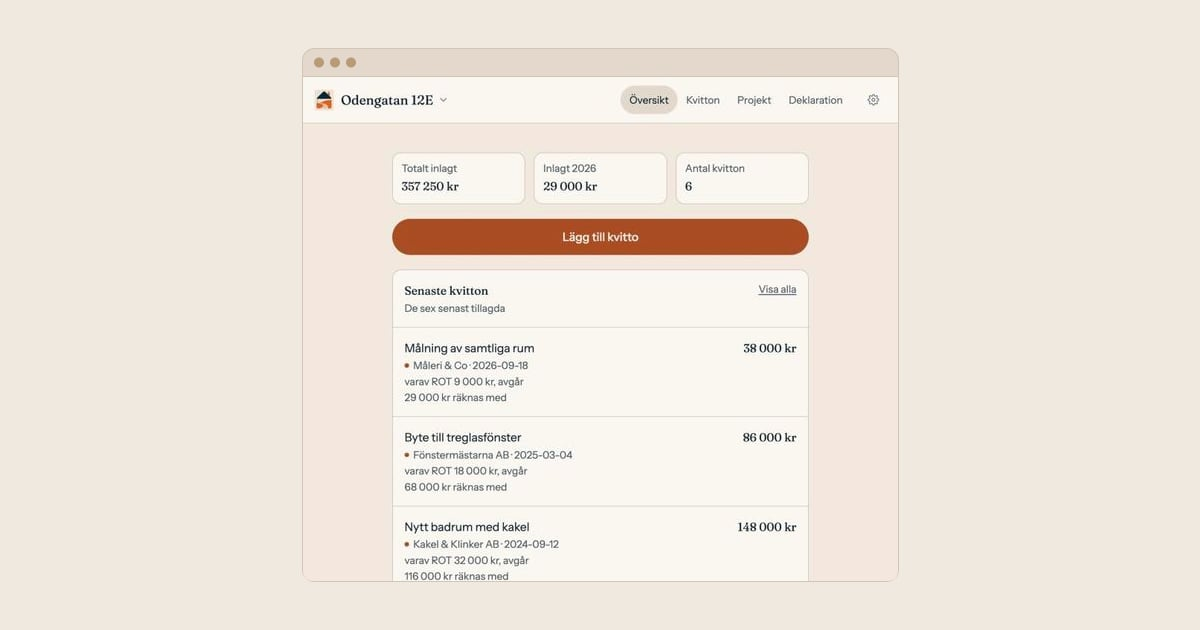
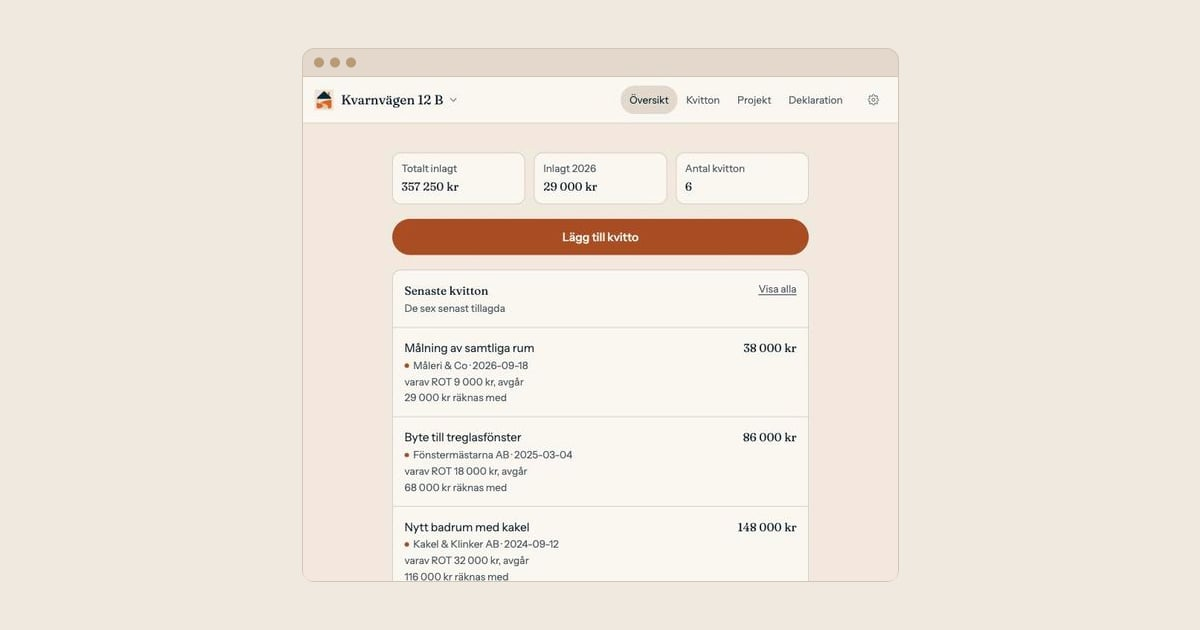
Femarsfonstret beskrivs som kalenderar overallt
Landningssidan, projektlistans informationsknapp och exportens skal sa
'inom/mer an fem ar fore forsaljningen' - en rullande period. Fonstret ar
forsaljningsaret och de fem kalenderaren narmast fore. Lydelserna ar
design.md:s, och ett test letar efter den gamla formen i det som renderas
och i varje kallfil. Svaret om eget arbete tar med hyrd maskin, avsnitt 6
heter 'Borja med nasta kvitto', och delningsbilden ar ombyggd ur den nya
skarmbilden med Kvarnvagen 12 B.

diff --git a/tester/femarsfonstret-lydelse.test.ts b/tester/femarsfonstret-lydelse.test.ts
@@ -1,0 +1,106 @@
+// @vitest-environment jsdom
+import { readdirSync, readFileSync, statSync } from "node:fs";
+import { join } from "node:path";
+import { act, createElement } from "react";
+import { createRoot } from "react-dom/client";
+import { renderToStaticMarkup } from "react-dom/server";
+import { describe, expect, it } from "vitest";
+import { Landningssida } from "@/app/landningssida";
+import { KategoriInfo } from "@/app/projekt/kategori-info";
+import { reparationsfonsterForklaring } from "@/doman/regeltext";
+
+// Femarsfonstret ar forsaljningsaret plus de fem narmast foregaende
+// kalenderaren (CLAUDE.md, Bortfall) – inte "inom fem ar fore forsaljningen",
+// som later som en rullande period bakat fran forsaljningsdagen. Den formen
+// stod 2026-10-23 pa landningssidan, i projektlistans informationsknapp och i
+// exportens skal, och den som laser den planerar fel.
+//
+// Den ratta lydelsen lases ur docs/design.md. Den forbjudna formen letas efter
+// i det som renderas OCH i kallkoden, sa att en ny skarm med samma fel fangas
+// aven om ingen har skrivit ett test for just den skarmen.
+
+(globalThis as { IS_REACT_ACT_ENVIRONMENT?: boolean }).IS_REACT_ACT_ENVIRONMENT = true;
+
+const DESIGN = readFileSync(join(process.cwd(), "docs", "design.md"), "utf-8");
+const normalisera = (t: string) => t.replace(/\s+/g, " ").trim();
+
+// Det regelparametern ger i dag. Texterna tar talet som argument.
+const FONSTER_AR = 5;
+
+/** "inom fem år före försäljningen", "mer än sex år före försäljningen" … */
+const ROLLANDE = /(inom|mer än)\s+\S+\s+år\s+före\s+försäljningen/i;
+
+function infoknappenEnligtDesign(): string[] {
+  const rad = DESIGN.split("\n").find((r) =>
+    r.startsWith("**En informationsknapp vid listans rubrik"),
+  );
+  expect(rad, "informationsknappens stycke i design.md").toBeTruthy();
+  const utanRubrik = rad!.replace(/^\*\*[^*]+\*\*\s*/, "");
+  return utanRubrik.split(/ (?=Reparation: )/).map(normalisera);
+}
+
+function exportskaletEnligtDesign(): string {
+  const traff = DESIGN.match(/Lydelsen ska vara: \*"([^"]+)"\*/);
+  expect(traff, "exportskalets lydelse i design.md").toBeTruthy();
+  return traff![1];
+}
+
+/** Informationsknappen, oppnad med ett riktigt klick, som text per stycke. */
+async function infoknappensText(): Promise<string[]> {
+  const behallare = document.createElement("div");
+  document.body.appendChild(behallare);
+  const rot = createRoot(behallare);
+  await act(async () => rot.render(createElement(KategoriInfo, { fonsterAr: FONSTER_AR })));
+  const knapp = behallare.querySelector("button")!;
+  await act(async () => knapp.dispatchEvent(new MouseEvent("click", { bubbles: true })));
+  const stycken = [...behallare.querySelectorAll("div.bg-sand p")].map((p) => normalisera(p.textContent ?? ""));
+  await act(async () => rot.unmount());
+  behallare.remove();
+  return stycken;
+}
+
+describe("projektlistans informationsknapp", () => {
+  it("säger ordagrant det design.md säger, när den öppnats", async () => {
+    const forvantat = infoknappenEnligtDesign();
+    expect(forvantat).toHaveLength(2);
+    expect(await infoknappensText()).toEqual(forvantat);
+  });
+});
+
+describe("exportens skäl när en reparation fallit ur fönstret", () => {
+  it("är design.md:s lydelse, ordagrant", () => {
+    expect(reparationsfonsterForklaring(FONSTER_AR)).toBe(exportskaletEnligtDesign());
+  });
+});
+
+describe("ingenstans beskrivs fönstret som en period bakåt från försäljningen", () => {
+  it("inte i det som renderas", async () => {
+    const renderat = [
+      normalisera(new DOMParser().parseFromString(renderToStaticMarkup(Landningssida()), "text/html").body.textContent ?? ""),
+      ...(await infoknappensText()),
+      ...[5, 6, 15].map(reparationsfonsterForklaring),
+    ];
+    for (const t of renderat) expect(t).not.toMatch(ROLLANDE);
+  });
+
+  it("inte i någon källfil – en ny skärm med samma fel fångas också", () => {
+    const filer: string[] = [];
+    const ga = (k: string) => {
+      for (const n of readdirSync(k)) {
+        const p = join(k, n);
+        if (statSync(p).isDirectory()) ga(p);
+        else if (/\.(tsx?|md)$/.test(n)) filer.push(p);
+      }
+    };
+    ga(join(process.cwd(), "src"));
+    expect(filer.length).toBeGreaterThan(50);
+
+    const traffar = filer.filter((f) => {
+      // Ett uttryck i JSX ({talSomOrd(fonsterAr)}) ar ett ord i den renderade
+      // texten – raknas som ett.
+      const text = normalisera(readFileSync(f, "utf-8").replace(/\{[^{}\n]*\}/g, "X"));
+      return ROLLANDE.test(text);
+    });
+    expect(traffar).toEqual([]);
+  });
+});

diff --git a/src/innehall/landningssida.ts b/src/innehall/landningssida.ts
@@ -32,7 +32,7 @@ export const FORBATTRINGSUTGIFT: { rubrik: string; block: Stycke[] } = {
     },
     {
       rubrik: "Reparationer räknas i fem år.",
-      text: "Förbättrande reparationer och underhåll räknas bara om de gjorts inom fem år före försäljningen, och bara till den del bostaden blivit bättre än den var när du köpte den.",
+      text: "Förbättrande reparationer och underhåll räknas bara om de gjorts under försäljningsåret eller de fem kalenderåren närmast före, och bara till den del bostaden blivit bättre än den var när du köpte den.",
     },
     {
       rubrik: "Minst 5 000 kr per kalenderår.",
@@ -72,11 +72,11 @@ export const VANLIGA_FRAGOR: { rubrik: string; fragor: Fraga[] } = {
   fragor: [
     {
       fraga: "Vilka renoveringar får jag dra av?",
-      svar: "Grundförbättringar – att bygga nytt, bygga till, bygga om eller sätta in något som inte fanns – räknas alltid. Reparationer och underhåll räknas bara om de gjorts inom fem år före försäljningen, och bara till den del bostaden blivit bättre än när du köpte den.",
+      svar: "Grundförbättringar – att bygga nytt, bygga till, bygga om eller sätta in något som inte fanns – räknas alltid. Reparationer och underhåll räknas bara om de gjorts under försäljningsåret eller de fem kalenderåren närmast före, och bara till den del bostaden blivit bättre än när du köpte den.",
     },
     {
       fraga: "Hur långt tillbaka i tiden räknas det?",
-      svar: "Grundförbättringar har ingen tidsgräns framåt. En ombyggnad från 2004 räknas lika fullt vid en försäljning i dag. Förbättrande reparationer räknas bara om de gjorts inom fem år före försäljningen.",
+      svar: "Grundförbättringar har ingen tidsgräns framåt. En ombyggnad från 2004 räknas lika fullt vid en försäljning i dag. Förbättrande reparationer räknas bara under försäljningsåret och de fem kalenderåren närmast före.",
     },
     {
       fraga: "Måste jag ha kvar kvittot?",
@@ -92,7 +92,7 @@ export const VANLIGA_FRAGOR: { rubrik: string; fragor: Fraga[] } = {
     },
     {
       fraga: "Räknas det jag gjort själv?",
-      svar: "Ditt eget arbete får du inte dra av, och inte heller verktygen. Materialet får du. Och gör du jobbet själv finns ingen hantverkarfaktura som minns åt dig – då är kvittot på materialet allt du har.",
+      svar: "Ditt eget arbete får du inte dra av. Materialet får du, och hyrde du en maskin för jobbet räknas hyran också. Gör du jobbet själv finns ingen hantverkarfaktura som minns åt dig – då är kvittona allt du har.",
     },
     {
       fraga: "Vad kostar Kvittobo?",
@@ -106,10 +106,8 @@ export const VEM_STAR_BAKOM = {
   text: "Kvittobo byggs av några få personer som själva tappat bort kvitton på sådant de gjort hemma. Bakom tjänsten står en privatperson, inte ett bolag. Appen ger ingen skatterådgivning och ersätter inte Skatteverkets information – den hjälper dig att ha underlaget i ordning.",
 };
 
-// design.md namnger avsnittet ("En avslutande uppmaning") men ger det ingen
-// rubrik. Den har ar vald av agenten 2026-10-23 och vantar pa en beslutad.
 export const AVSLUTNING = {
-  rubrik: "Kom igång",
+  rubrik: "Börja med nästa kvitto",
 };
 
 export const HJALTEBILDENS_ALT =

diff --git a/src/app/projekt/kategori-info.tsx b/src/app/projekt/kategori-info.tsx
@@ -39,13 +39,17 @@ export function KategoriInfo({ fonsterAr }: { fonsterAr: number }) {
         <div className="mt-2 space-y-2 rounded-lg bg-sand px-3 py-2 font-granssnitt text-sm text-text-primar">
           <p>
             <span className="font-medium">Grundförbättring:</span> något
-            tillfördes eller standarden höjdes. Ingen tidsgräns bakåt.
+            tillfördes eller standarden höjdes, ingen tidsgräns bakåt.
           </p>
+          {/* Fonstret ar forsaljningsaret plus de narmast foregaende
+              kalenderaren, inte en rullande period bakat fran
+              forsaljningsdagen (CLAUDE.md, Bortfall). Lydelsen ar
+              design.md:s, ordagrant – tester/femarsfonstret-lydelse.test.ts. */}
           <p>
             <span className="font-medium">Reparation:</span> något fräschades
-            upp eller lagades. Avdragsgill bara inom {talSomOrd(fonsterAr)} år
-            före försäljningen och bara om bostaden är i bättre skick än vid
-            tillträdet.
+            upp eller lagades, avdragsgill bara under försäljningsåret och de{" "}
+            {talSomOrd(fonsterAr)} kalenderåren närmast före, och bara om
+            bostaden är i bättre skick än vid tillträdet.
           </p>
         </div>
       ) : null}

diff --git a/tester/export-forklaring.test.ts b/tester/export-forklaring.test.ts
@@ -62,7 +62,9 @@ describe("forklaringen till en 0-kr-rad i K6A-exporten", () => {
     const ex = byggK6aExport(bygg({ projekt: [p], kostnader: [k] }));
     const rad = ex.sida2.rader.find((r) => r.atgard === "Slipa golv");
     expect(rad?.belopp_brutto).toBe(0);
-    expect(rad?.forklaring).toBe("Åtgärden utfördes mer än fem år före försäljningen.");
+    expect(rad?.forklaring).toBe(
+      "Åtgärden ligger utanför femårsfönstret, som är försäljningsåret och de fem kalenderåren närmast före.",
+    );
   });
 
   it("skicket forbattrades inte: reparationsunderlaget racker sjalvt over troskeln men skickfaktorn ar 0", () => {
@@ -245,6 +247,8 @@ describe("förklaringen följer regelparametern", () => {
     );
     const rad = ex.sida2.rader.find((r) => r.atgard === "Slipa golv");
     expect(rad?.belopp_brutto).toBe(0);
-    expect(rad?.forklaring).toBe("Åtgärden utfördes mer än sex år före försäljningen.");
+    expect(rad?.forklaring).toBe(
+      "Åtgärden ligger utanför sexårsfönstret, som är försäljningsåret och de sex kalenderåren närmast före.",
+    );
   });
 });

diff --git a/src/doman/regeltext.ts b/src/doman/regeltext.ts
@@ -70,9 +70,17 @@ export function bakreGransForklaring(
   return `Åtgärden utfördes före ${gransAr} – för ${vilka} räknas inget tidigare.`;
 }
 
-/** Forklaringen till en reparation som foll ur tidsfonstret fore forsaljningen. */
+/**
+ * Forklaringen till en reparation som foll ur tidsfonstret fore forsaljningen
+ * (docs/design.md, Exportvyn). Fonstret ar forsaljningsaret plus de narmast
+ * foregaende kalenderaren – inte en rullande period. Den tidigare lydelsen,
+ * "mer an fem ar fore forsaljningen", var alltid sann dar den visades men
+ * beskrev fel form pa regeln (rattad 2026-10-24).
+ */
 export function reparationsfonsterForklaring(fonsterAr: number): string {
-  return `Åtgärden utfördes mer än ${talSomOrd(fonsterAr)} år före försäljningen.`;
+  const ord = talSomOrd(fonsterAr);
+  const fonster = /^\d/.test(ord) ? `${ord}-årsfönstret` : `${ord}årsfönstret`;
+  return `Åtgärden ligger utanför ${fonster}, som är försäljningsåret och de ${ord} kalenderåren närmast före.`;
 }
 
 /** Regelns namn i lopande text: "femårsregeln" nar fonstret ar fem ar. */

diff --git a/tester/landningssida.test.ts b/tester/landningssida.test.ts
@@ -63,7 +63,7 @@ const SVAREN = citat("### De sju svaren")
     const [fraga, ...svar] = block.split("\n");
     return { fraga: normalisera(utanFet(fraga)), svar: normalisera(svar.join(" ")) };
   });
-const AVSNITTEN = DESIGN.filter((r) => /^\*\*[1-5]\. /.test(r)).map((r) =>
+const AVSNITTEN = DESIGN.filter((r) => /^\*\*[1-6]\. /.test(r)).map((r) =>
   r.match(/^\*\*\d\. (.+?)\.?\*\*/)![1],
 );
 
@@ -132,12 +132,11 @@ describe("landningssidan – under vikningen", () => {
     expect(dok.querySelectorAll("h1")).toHaveLength(1);
   });
 
-  it("avsnitten i design.md:s ordning, ett h2 vardera, plus avslutningen", () => {
+  it("de sex avsnitten i design.md:s ordning, ett h2 vardera", () => {
     const { dok } = sida();
     const h2 = [...dok.querySelectorAll("h2")].map(text);
-    expect(AVSNITTEN).toHaveLength(5);
-    expect(h2.slice(0, 5)).toEqual(AVSNITTEN);
-    expect(h2).toHaveLength(6);
+    expect(AVSNITTEN).toHaveLength(6);
+    expect(h2).toEqual(AVSNITTEN);
   });
 
   it("de sju frågorna och svaren står på sidan ordagrant som i design.md", () => {

diff --git a/tester/regeltext.test.ts b/tester/regeltext.test.ts
@@ -30,9 +30,14 @@ describe("regeltexter", () => {
 
   it("tidsfönstret skrivs som ord och följer värdet", () => {
     expect(reparationsfonsterForklaring(5)).toBe(
-      "Åtgärden utfördes mer än fem år före försäljningen.",
+      "Åtgärden ligger utanför femårsfönstret, som är försäljningsåret och de fem kalenderåren närmast före.",
     );
-    expect(reparationsfonsterForklaring(6)).toContain("sex år");
+    expect(reparationsfonsterForklaring(6)).toBe(
+      "Åtgärden ligger utanför sexårsfönstret, som är försäljningsåret och de sex kalenderåren närmast före.",
+    );
+    expect(reparationsfonsterForklaring(15)).toBe(
+      "Åtgärden ligger utanför 15-årsfönstret, som är försäljningsåret och de 15 kalenderåren närmast före.",
+    );
     expect(reparationsfonsterNamn(5)).toBe("femårsregeln");
     expect(reparationsfonsterNamn(7)).toBe("sjuårsregeln");
   });
